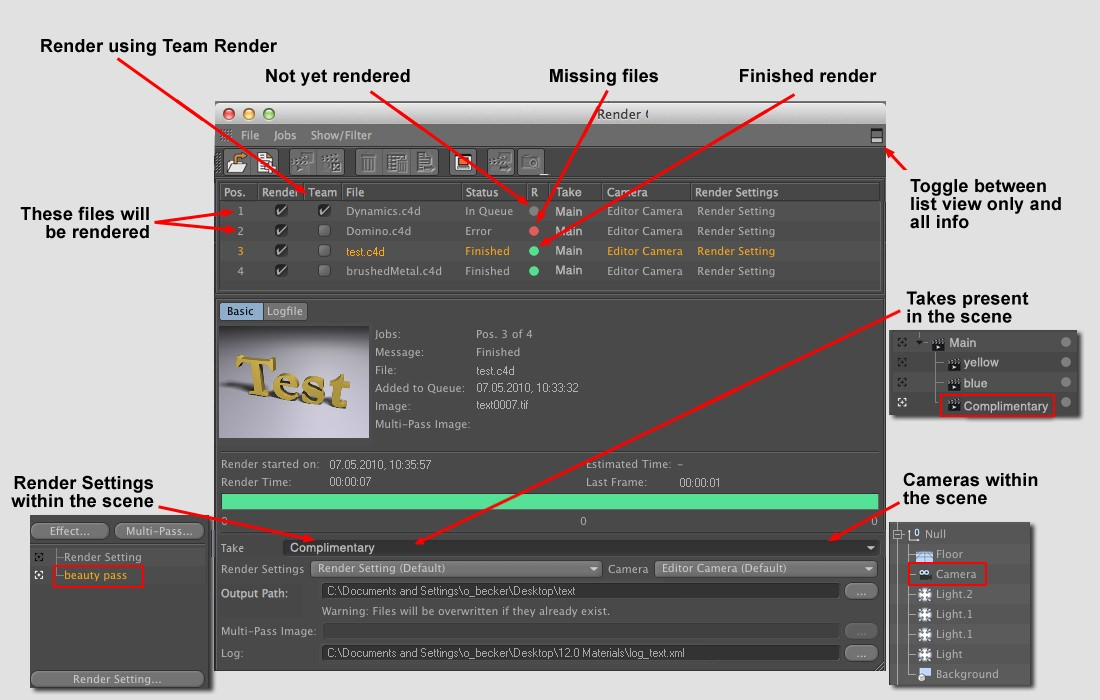
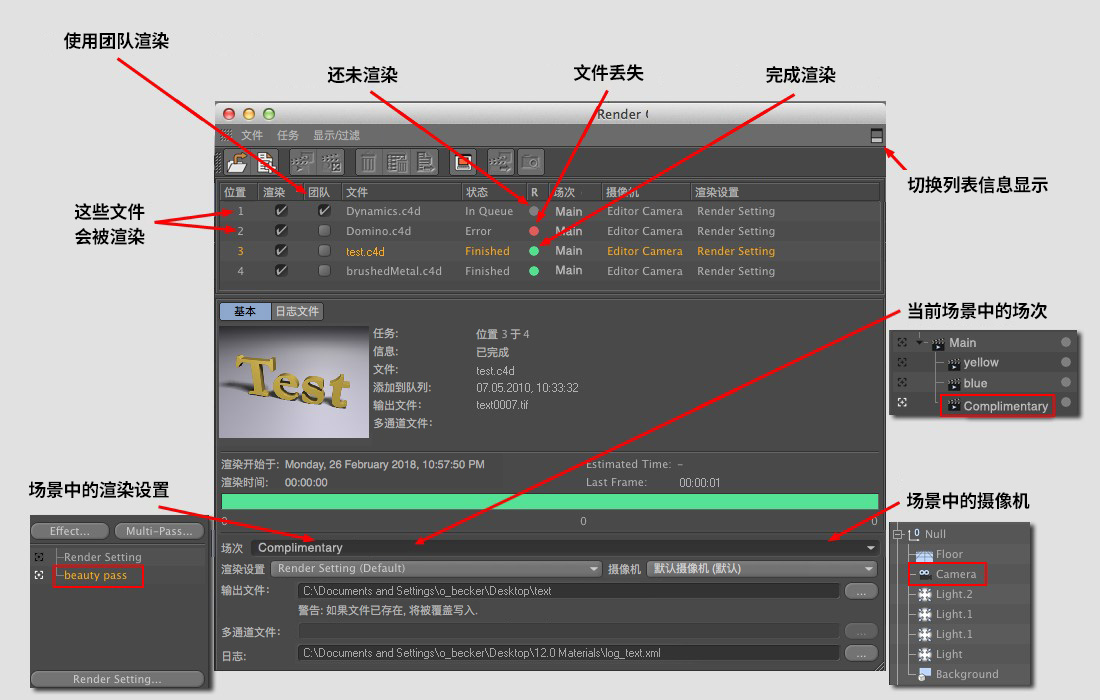
MAC

diff --git a/help/CN/html/xxxDRENDERSETTINGS-OBASELIST.html b/help/CN/html/xxxDRENDERSETTINGS-OBASELIST.html
@@ -5,7 +5,7 @@
 	<head>
 		<meta http-equiv="content-type" content="text/html;charset=utf-8">
 		<meta name="generator" content="WICKIE">
-		<title>Edit Render Settings: Basic Properties</title>
+		<title>编辑渲染设置：基本特性</title>
 		<meta name="FORMATTER" content="wickie">
 		<link href="../../files/wickie.css" type="text/css" rel="stylesheet" media="all">
 		<script type="text/javascript" src="../../files/versionAppender.js"> </script>
@@ -13,7 +13,7 @@
 		<!--PAGE_ID "32049"-->
 		<!--VATER_ID "32048"-->
 		<!--REIHENFOLGE "1"-->
-		<!--TITLE "Edit Render Settings: Basic Properties"-->
+		<!--TITLE "编辑渲染设置：基本特性"-->
 		<!--APPS "11 16 17 10 14 15"-->
 		<!--TYP "GROUP"-->
 	</head>
@@ -22,43 +22,50 @@
 
 
 <!--NO_SEARCH_START-->
-<span class="link_back"><a href="43666.html" target="_self">Reference</a></span> <span class="link_back"><a href="43668.html" target="_self">CINEMA 4D</a></span> <span class="link_back"><a href="1001.html" target="_self">CINEMA 4D Prime</a></span> <span class="link_back"><a href="5697.html" target="_self">Render Menu</a></span> <span class="link_back"><a href="DRENDERSETTINGS.html" target="_self">Edit Render Settings</a></span>
+<span class="link_back"><a href="43666.html" target="_self">参考</a></span> <span class="link_back"><a href="43668.html" target="_self">CINEMA 4D</a></span> <span class="link_back"><a href="1001.html" target="_self">CINEMA 4D Prime</a></span> <span class="link_back"><a href="5697.html" target="_self">渲染菜单</a></span> <span class="link_back"><a href="DRENDERSETTINGS.html" target="_self">编辑渲染设置</a></span>
 
 <div class="in-lite-page in-prime-page in-visualize-page in-broadcast-page in-studio-page in-bodypaint3d-page ">  <div class="page_only_body">
 <div class="page_only_apps">             Function available in CINEMA 4D Prime, Visualize, Broadcast, Studio & BodyPaint 3D  </div>
-<span class="HL_atom"><a href="DRENDERSETTINGS.html">Render Setting</a> </span><p></p><a href="DRENDERSETTINGS-OBASELIST.html" target=""><span class="c4d_group_navi_self">Basic</span></a> <a href="DRENDERSETTINGS-RDATA_GROUP_OUTPUT.html" target=""><span class="c4d_group_navi">Output</span></a> <a href="DRENDERSETTINGS-RDATA_GROUP_SAVE.html" target=""><span class="c4d_group_navi">Save</span></a> <a href="DRENDERSETTINGS-RDATA_GROUP_MULTIPASS.html" target=""><span class="c4d_group_navi">Multi-Pass</span></a> <a href="DRENDERSETTINGS-RDATA_GROUP_ANTIALIASING.html" target=""><span class="c4d_group_navi">Anti-Aliasing</span></a> <a href="DRENDERSETTINGS-RDATA_GROUP_OVERRIDEMAT.html" target=""><span class="c4d_group_navi">Material Override</span></a> <a href="DRENDERSETTINGS-RDATA_GROUP_OPTIONS.html" target=""><span class="c4d_group_navi">Options</span></a> <a href="DRENDERSETTINGS-RDATA_GROUP_STEREO.html" target=""><span class="c4d_group_navi">Stereoscopic</span></a> <a href="DRENDERSETTINGS-RDATA_GROUP_NET.html" target=""><span class="c4d_group_navi">Team Render</span></a><!--NO_SEARCH_END--><p class="c4d_group"><span>Basic Properties</span></p><p></p>
-<p>Basic Properties</p>
-<p><a id="ID_BASELIST_NAME" name="ID_BASELIST_NAME"></a> <!--INDEX "8","Name","ID_BASELIST_NAME"--><span class="c4d_id">Name</span></p>
-<p>Here you can enter a name for the object.</p>
-<p>This name will also appear in the Render menu and the Content Browser when the property is saved as a preset.</p>
-<p><a id="RDATA_GLOBALSAVE" name="RDATA_GLOBALSAVE"></a> <!--INDEX "8","Save","RDATA_GLOBALSAVE"--><span class="c4d_id">Save</span></p>
-<p>Use this option to define globally if any data should be saved at all during rendering. This also applies to Multi-Pass and compositing files.</p>
-<p><a id="RDATA_MULTIPASS_ENABLE" name="RDATA_MULTIPASS_ENABLE"></a> <!--INDEX "8","Enable Multi-Pass Rendering","RDATA_MULTIPASS_ENABLE"--><span class="c4d_id">Enable Multi-Pass Rendering</span></p>
-<p>Enables or disables the <a href="DRENDERSETTINGS-RDATA_GROUP_SAVE.html#mp" target="">Multi-Pass-Rendering</a> Cinema 4D.</p>
+<span class="HL_atom"><a href="DRENDERSETTINGS.html">渲染设置</a> </span><p></p><a href="DRENDERSETTINGS-OBASELIST.html" target=""><span class="c4d_group_navi_self">基本</span></a> <a href="DRENDERSETTINGS-RDATA_GROUP_OUTPUT.html" target=""><span class="c4d_group_navi">输出</span></a> <a href="DRENDERSETTINGS-RDATA_GROUP_SAVE.html" target=""><span class="c4d_group_navi">保存</span></a> <a href="DRENDERSETTINGS-RDATA_GROUP_MULTIPASS.html" target=""><span class="c4d_group_navi">多通道</span></a> <a href="DRENDERSETTINGS-RDATA_GROUP_ANTIALIASING.html" target=""><span class="c4d_group_navi">抗锯齿</span></a> <a href="DRENDERSETTINGS-RDATA_GROUP_OVERRIDEMAT.html" target=""><span class="c4d_group_navi">材质覆写</span></a> <a href="DRENDERSETTINGS-RDATA_GROUP_OPTIONS.html" target=""><span class="c4d_group_navi">选项</span></a> <a href="DRENDERSETTINGS-RDATA_GROUP_STEREO.html" target=""><span class="c4d_group_navi">立体</span></a> <a href="DRENDERSETTINGS-RDATA_GROUP_NET.html" target=""><span class="c4d_group_navi">Team Render</span></a><!--NO_SEARCH_END--><p class="c4d_group"><span>基本特性</span></p><p></p>
+<p>基本特性</p>
+<p><a id="ID_BASELIST_NAME" name="ID_BASELIST_NAME"></a> <!--INDEX "8","名称","ID_BASELIST_NAME"--><span class="c4d_id">名称</span></p>
+<p>你可以在这里输入渲染设置的名称。</p>
+<p>当特性保存为预设后，这个名称还会出现在渲染菜单和内容浏览器中。</p>
+<p><a id="RDATA_GLOBALSAVE" name="RDATA_GLOBALSAVE"></a> <!--INDEX "8","保存","RDATA_GLOBALSAVE"--><span class="c4d_id">保存</span></p>
+<p>使用这个选项可以全局地设置在渲染中要保存哪些数据，它还会应用到多通道和合成文件中。</p>
+<p><a id="RDATA_MULTIPASS_ENABLE" name="RDATA_MULTIPASS_ENABLE"></a> <!--INDEX "8","启用多通道渲染","RDATA_MULTIPASS_ENABLE"--><span class="c4d_id">启用多通道渲染</span></p>
+<p>启用或禁用<a href="DRENDERSETTINGS-RDATA_GROUP_SAVE.html#mp" target="">多通道渲染</a>。</p>
 <p><RELEASE_130></p>
-<p><a id="RDATA_STEREO" name="RDATA_STEREO"></a> <!--INDEX "8","Enable Stereoscopic Rendering","RDATA_STEREO"--><span class="c4d_id">Enable Stereoscopic Rendering</span></p>
-<p>This is the main switch for enabling or disabling stereoscopic rendering. For details, please refer to <a href="DRENDERSETTINGS-RDATA_GROUP_STEREO.html" target="">Stereoscopic</a>.</p>
-<p><a id="RDATA_MATERIAL_OVERRIDE" name="RDATA_MATERIAL_OVERRIDE"></a> <!--INDEX "8","Material Override","RDATA_MATERIAL_OVERRIDE"--><span class="c4d_id">Material Override</span></p>
-<p>See <a href="DRENDERSETTINGS-RDATA_GROUP_OVERRIDEMAT.html" target="">Material Override</a>.</p>
+<p><a id="RDATA_STEREO" name="RDATA_STEREO"></a> <!--INDEX "8","启用立体渲染","RDATA_STEREO"--><span class="c4d_id">启用立体渲染</span></p>
+<p>这是启用和或禁用立体渲染的主要开关。要查看详细内容，请参考<a href="DRENDERSETTINGS-RDATA_GROUP_STEREO.html" target="">立体</a>。</p>
+<p><a id="RDATA_MATERIAL_OVERRIDE" name="RDATA_MATERIAL_OVERRIDE"></a> <!--INDEX "8","材质覆写","RDATA_MATERIAL_OVERRIDE"--><span class="c4d_id">材质覆写</span></p>
+<p>参见<a href="DRENDERSETTINGS-RDATA_GROUP_OVERRIDEMAT.html" target="">材质覆写</a>。</p>
 <p><a id="RENDERER" name="RENDERER"></a></p>
-<p><a id="RDATA_RENDERENGINE" name="RDATA_RENDERENGINE"></a> <!--INDEX "8","Renderer","RDATA_RENDERENGINE"--><span class="c4d_id">Renderer</span> <span class="range">[-2147483648..2147483647]</span></p>
-<p>Depending on the renderer you have installed, a list will be displayed that lets you define how Cinema 4D should render. What you will normally see displayed in this list is:<ul></p>
-<p><li> <span class="command">Standard</span>: The normal Cinema 4D render engine will be used.</li><li> <span class="command">Software OpenGL</span>: Renders exactly as what is displayed in the Viewport. OpenGL will be rendered using the CUP and will therefore be slower than with <span class="command">Hardware OpenGL</span>. There is no visible difference between <span class="command">Software OpenGL</span> and <span class="command">Hardware OpenGL</span> (details can be found under <a href="PREFSOPENGL-PREF_OPENGL_MAIN_GROUP.html#PREF_OPENGL_HARDWARE" target="_self"><span class="text_id">Hardware OpenGL</span></a>).</li><li> <span class="command">Hardware OpenGL</span>: Renders exactly as what is displayed in the Viewport. OpenGL will be rendered a maximum speed using the graphics card.</li></ul><p></p>
-<p><div class="in-visualize in-broadcast in-studio " align="left">     <div class="only_marker" align ="right">         <div class="only_apps">             Function available in CINEMA 4D Visualize, Broadcast, Studio         </div>              <div class="only_body" align="left">             Physical</span>: A special renderer, including a Physical Camera will be used in order to render special effects such as real 3D depth of field or motion blur, etc.</p>
-<p>         </div>     </div> </div></p>
-<p><div class="in-visualize in-studio " align="left">     <div class="only_marker" align ="right">         <div class="only_apps">             Function available in CINEMA 4D Visualize, Studio         </div>              <div class="only_body" align="left">             <ul></p>
-<p><li> <span class="command">CineMan</span>: Use this option if you want to render using CineMan-compatible renderers (see <a href="32322.html" target="">CineMan</a>).</li>         </div>     </div> </div></p>
-<p><li> Any other renderers that are installed.</li></ul><p></p>
-<p><span class="command">Standard</span> or <span class="command">Physical Renderer</span>?</p>
-<p>In most cases you should use the normal Cinema 4D renderer (Standard), which itself is very fast and stable.</p>
-<p>However, if you want to correctly depict photographic effects such as those listed below, you should use the <span class="command">Physical Renderer</span>.<ul></p>
-<p><li> Rendered depth of field with corresponding blur effects</li><li> Rendered motion blur</li><li> Vignetting (darkening towards the image edge)</li><li> Chromatic Aberration (color seams at edges), etc.</li><li> When rendering multiple, combined blur effects (motion blur with depth of field, Area shadows, etc.) the Physical Renderer is faster than the Standard renderer.</li></ul><p></p>
+<p><a id="RDATA_RENDERENGINE" name="RDATA_RENDERENGINE"></a> <!--INDEX "8","渲染器","RDATA_RENDERENGINE"--><span class="c4d_id">渲染器</span> <span class="range">[-2147483648..2147483647]</span></p>
+<p>根据你安装的渲染器，这里会显示可用的渲染器列表，用它设置 CINEMA 4D 要使用那种渲染器进行渲染。通常列表中有以下渲染器：<ul></p>
+<p><li> <span class="command">标准</span>：通常 CINEMA 4D 会使用的渲染引擎。</li>
+<li> <span class="command">软件OpenGL</span>：用在视窗中显示的渲染器。OpenGL 会使用 CPU 进行渲染因此会比<span class="command">硬件OpenGL</span>慢。<span class="command">软件OpenGL</span>和<span class="command">硬件OpenGL</span>之间没有明显的差别（详见<a href="PREFSOPENGL-PREF_OPENGL_MAIN_GROUP.html#PREF_OPENGL_HARDWARE" target="_self"><span class="text_id">硬件OpenGL</span></a>）。</li>
+<li> <span class="command">硬件OpenGL</span>：用在视窗中显示的渲染器。OpenGL 在使用显卡时渲染速度最快。</li>
+<li> <span class="command">物理</span>：一个特殊的渲染器，会使用物理摄像头来渲染如真实 3D 景深或动态模糊等特殊效果。</li>
+<li> <span class="command">CineMan</span>：如果你想要使用 CineMan 兼容的渲染器，请使用这个选项（参见 <a href="32322.html" target="">CineMan</a>）。</li>
+<li> 其他安装的渲染器。</li></ul><p></p>
+<p><span class="command">标准</span>还是<span class="command">物理渲染器</span>？</p>
+<p>在大多数情况下你应该使用通常的 CINEMA 4D 渲染器（标准），因为它很快而且稳定。</p>
+<p>但是如果你想要准确地表现如下的照片效果，你应该使用<span class="command">物理渲染器</span>。<ul></p>
+<p><li> 渲染有相应模糊效果的景深</li>
+<li> 渲染动态模糊</li>
+<li> 装饰（图片边缘变暗）</li>
+<li> 色差（边缘处的彩色接缝）等</li>
+<li> 当渲染多个组合的模糊效果（有景深、区域阴影等效果的动态模糊）时，物理渲染器要比标准渲染器要快。</li></ul><p></p>
 <p><a id="DRAWBACKS" name="DRAWBACKS"></a></p>
-<p>Several drawbacks of the Physical Renderer, however, should not be ignored:<ul></p>
-<p><li> The realistic simulation of physical effects requires more calculation power and more time. It does, however, offer several more settings (which offer great potential for optimization), which in particular can make very fast preview renderings possible. Many more possibilities are also offered in conjunction with the <span class="command">Progressive Sampler</span> (endless rendering). More details can be found <a href="OCAMERA-ID_GROUP_LENS.html" target="">here</a>.</li><li> The Physical Renderer bears a number of disadvantages. For example, it does not work in conjunction with Sketch and Toon, the Cartoon Renderer post effect, Specular lights, cylindrical lens (and other post effects displayed in the selection menu); motion blur does not work in conjunction with several special elements such as PyroCluster, visible lights, object glow; furthermore, hair is rendered much slower, hair Multi-Passes cannot be rendered; finally, no hard shadows can be rendered (Area shadows will be rendered instead).</li><li> Faulty results can be produced in conjunction with Multi-Passes and Shaders (e.g., proximal and plug-in Shaders that use their own cache) when combined with motion blur.</li></ul><p></p>
-<p>Several effects in the Physical Renderer have been simulated for some time now in post-production. However, much of this was done by cheating and the result never really matched the real rendered effect. This applies to the following situations, for example:</p>
+<p>但是物理渲染器也有一些不可忽视的缺点：<ul></p>
+<p><li> 对物理效果的真实模拟需要更大的计算量和更多的时间。不过它也提供了一些设置，通过这些设置有巨大的优化潜力，尤其是可以使快速的预览渲染成为可能，搭配<span class="command">进程式采样</span>（无穷渲染）还能得到更多的可能性。详见<a href="OCAMERA-ID_GROUP_LENS.html" target="">这里</a>。</li>
+<li> 物理渲染器有很多缺陷，例如它不能与素描卡通、线描染器、高光（以及选择菜单中的一些其他效果）等一起使用；动态模糊不能与一些如 PyroCluster、可见灯光、对象辉光等特殊元素一起使用；还有，毛发渲染会慢得多，毛发多通道无法被渲染；最后，无法渲染硬投影（会渲染为区域阴影进行取代）。</li>
+<li> 当动态模糊与多通道和着色器（例如使用自己缓存的接近着色器和插件着色器）一起使用时会产生错误的结果。</li></ul><p></p>
+<p>物理渲染器中的一些效果现在在后期制作中已经可以被模拟了，虽然其中的大部分都是通过欺骗实现的，而且结果与真实渲染的效果并不相符。这可以应用到以下的情况，例如：</p>
 <p><div class="image_full" style="max-width:1600px"><img  src="../pics/031298.jpg"  ><span class="caption"></span></div><ul></p>
-<p><li> Left: Here you see a glass cube positioned in front of several spheres. The cube itself is blurred but the reflection of the sphere behind it is in focus. If a 2D post effect had been applied in whose depth map no information about the object behind the transparency is contained, everything behind the glass cube would have been rendered out of focus (blurred).</li><li> Right: 2D motion blur effects often have shortcomings at the edges because no information is available about objects that lie just outside the rendered region. However, this does not pose a problem for a real 3D motion blur.</li></RELEASE_130></p>
+<p><li> 左图：你可以在图中看到一个玻璃立方体位于一些球体前方。这个立方体自身是模糊的，但是在它后面的球体是聚焦的。如果对一个深度图不包含其背后物体信息的透明物体应用了 2D 特效，那么玻璃立方体背后的所有物体都会被处理为失焦（模糊）。</li>
+<li> 右图：2D 动态模糊效果通常在边缘处有缺陷，因为没有位于渲染范围以外的物体的信息可用，但是对真实的 3D 动态模糊中不存在这个问题。</li></RELEASE_130></p>
 <p></ul><p></p>
 <p>
 

diff --git a/help/CN/html/DRENDERSETTINGS.html b/help/CN/html/DRENDERSETTINGS.html
@@ -1,0 +1,90 @@
+<!DOCTYPE html PUBLIC "-//W3C//DTD HTML 4.01 Transitional//EN">
+<!-- saved from url=(0014)about:internet -->
+<html>
+
+	<head>
+		<meta http-equiv="content-type" content="text/html;charset=utf-8">
+		<meta name="generator" content="WICKIE">
+		<title>编辑渲染设置</title>
+		<meta name="FORMATTER" content="wickie">
+		<link href="../../files/wickie.css" type="text/css" rel="stylesheet" media="all">
+		<script type="text/javascript" src="../../files/versionAppender.js"> </script>
+		<script type="text/javascript" src="../../files/linkRewriter.js"> </script> 
+		<!--PAGE_ID "32048"-->
+		<!--VATER_ID "5697"-->
+		<!--REIHENFOLGE "10"-->
+		<!--TITLE "编辑渲染设置"-->
+		<!--APPS "11 16 17 14 15 10"-->
+		<!--TYP "ATOM"-->
+	</head>
+
+<body bgcolor="#e0e0e0" link="black" vlink="#2a2a2a">
+
+
+<!--NO_SEARCH_START-->
+<span class="link_back"><a href="1000.html" target="_self">Cinema 4D / BodyPaint 3D 程序文档</a></span> <span class="link_back"><a href="43666.html" target="_self">参考</a></span> <span class="link_back"><a href="43668.html" target="_self">CINEMA 4D</a></span> <span class="link_back"><a href="1001.html" target="_self">CINEMA 4D Prime</a></span> <span class="link_back"><a href="5697.html" target="_self">渲染菜单</a></span>
+
+<div class="in-lite-page in-prime-page in-visualize-page in-broadcast-page in-studio-page in-bodypaint3d-page ">  <div class="page_only_body">
+<div class="page_only_apps">             Function available in CINEMA 4D Prime, Visualize, Broadcast, Studio & BodyPaint 3D  </div>
+<!--INDEX "4","渲染设置",""--><p><span class="HL_atom">渲染设置</span><p></p><a href="DRENDERSETTINGS-OBASELIST.html" target=""><span class="c4d_group_navi">基本</span></a> <a href="DRENDERSETTINGS-RDATA_GROUP_OUTPUT.html" target=""><span class="c4d_group_navi">输出</span></a> <a href="DRENDERSETTINGS-RDATA_GROUP_SAVE.html" target=""><span class="c4d_group_navi">保存</span></a> <a href="DRENDERSETTINGS-RDATA_GROUP_MULTIPASS.html" target=""><span class="c4d_group_navi">多通道</span></a> <a href="DRENDERSETTINGS-RDATA_GROUP_ANTIALIASING.html" target=""><span class="c4d_group_navi">抗锯齿</span></a> <a href="DRENDERSETTINGS-RDATA_GROUP_OVERRIDEMAT.html" target=""><span class="c4d_group_navi">材质覆写</span></a> <a href="DRENDERSETTINGS-RDATA_GROUP_OPTIONS.html" target=""><span class="c4d_group_navi">选项</span></a> <a href="DRENDERSETTINGS-RDATA_GROUP_STEREO.html" target=""><span class="c4d_group_navi">立体</span></a> <a href="DRENDERSETTINGS-RDATA_GROUP_NET.html" target=""><span class="c4d_group_navi">Team Render</span></a><!--NO_SEARCH_END--><!--INDEX "2","渲染设置",""--><p><span class="HL_group">渲染设置</span></p><p></p>
+<p><PAGE_RELEASE_110 Improved organization of Render Settings options.></p>
+<p><!--INDEX "7","编辑渲染设置…",""--><!--PAGE_COMMAND "PLUGIN_Cmd_12161"--></p>
+<p><!--INDEX "7","渲染设置",""--><!--PAGE_COMMAND "PLUGIN_Cmd_50000"--></p>
+<p><a id="hl_1" name="hl_1"></a><!--INDEX "3","通用","hl_1"--><p><span class="HL_1">通用</span></p>
+<p><div class="image_full" style="max-width:1005px"><img  src="../pics/020127.jpg"  ><span class="caption">渲染预设选项可以用来设定图片或影片的输出格式。</span></div></p>
+<p>这个命令会打开渲染设置对话窗，另外，这个窗口也可以通过<a href="5821.html" target=""><span class="command">属性管理器</span></a>的模式菜单中的<span class="command">渲染设置</span>选项打开。</p>
+<p>在可用的渲染器（参见<a href="DRENDERSETTINGS-OBASELIST.html#RDATA_RENDERENGINE" target="_self"><span class="text_id">渲染器</span></a>）列表的下方，你可以找到一列按类别划分的渲染选项，它们位于渲染设置窗口的左上方，后期效果或多通道效果可以通过点击相应的<span class="command">效果</span>或<span class="command">多通道</span>按钮来添加，多个后期效果或多通道效果可以通过拖放来改变它们的顺序（改变后期效果的顺序可以改变这些效果组合产生的结果）。如果选择了多个后期效果或多通道效果，所有相应的设置会在窗口右侧区域显示。后期效果预设可以加载或保存。</p>
+<p>在部分渲染选项或后期效果的左边有一个复选框，你可以用它来激活或关闭相应的选项。这些复选框可以用来设定那些在渲染过程中基本不用保存的内容（无渲染的图像或视频、无多通道、无合成文件、无辐照缓存等）。</p>
+<p>当前场景的所有渲染设置会显示在渲染设置窗口的左下角。如果选择了一项设置，它的名称和相应的图标会被高亮显示。要重命名一项渲染设置，在它的名称上双击即可（跟在<span class="command">对象管理器</span>中重命名对象名称一样）。渲染设置可以直接拖放到列表中的其他位置，或按住 Ctrl 拖放来复制，甚至可以作为另一项渲染设置的子项（参见下一节）。渲染设置也可以在不同的场景之间复制和粘贴，而且它也可以被加载或保存。</p>
+<p>渲染设置窗口的右半部分包含了全部可以被修改的渲染设置，这些设置从 R11 版本开始与<span class="command">属性管理器</span>相兼容，这个版本起你可以使用所有相关的<span class="command">属性管理器</span> <a href="5822.html#context" target="">右键菜单</a>命令（右键单击）和这两个额外的参数：</p>
+<p><ul></p>
+<p><li> 继承父级设置：选择这个命令会重设所有没有继承值（粗体字）的参数。</li></ul><p><ul></p>
+<p><li> 覆写父级设置：选择这个命令会防止任何父级数值被假定（参数名称会加粗）。</li></ul><p></p>
+<p><RELEASE_110></p>
+<p>渲染设置也作为 HUD 元素显示在视窗中：</p>
+<p><div class="image_full" style="max-width:233px"><img  src="../pics/020564.jpg"  ><span class="caption"></span></div></p>
+<p><a id="hl_2" name="hl_2"></a><!--INDEX "3","继承渲染设置","hl_2"--><p><span class="HL_1">继承渲染设置</span></p>
+<p>CINEMA R11 版本添加的新特性，现在可以创建继承的渲染设置。</p>
+<p><ul></p>
+<p><li> 你可以直接拖放渲染设置，</li>或者</p>
+<p><li> 在一个渲染设置上单击右键然后选择<span class="command">新建子级</span></li></ul><p></p>
+<p>如果没有定义其他设置，子级渲染设置会继承所有父级的渲染设置，也就是说，如果修改了一个父级渲染设置，子级渲染设置也会相应的被修改。例外：如果一个将子级设置的参数设置为跟父级不同。</p>
+<p><a id="hl_3" name="hl_3"></a><!--INDEX "3","示例","hl_3"--><p><span class="HL_3">示例</span></p>
+<p><div class="image_full" style="max-width:735px"><img  src="../pics/020128.jpg"  ><span class="caption">继承了父级设置的子级参数名不是粗体，红色方框中的粗体参数则不会继承父级设置。</span></div></p>
+<p>在上面的示例中，创建了一个名称为 <span class="command">Preview Render (large)</span> 的渲染设置，在这个设置上单击右键并选择<span class="command">新建子级</span>来创建一个子级渲染设置，将这个新的子级渲染设置重命名为 <span class="command">Preview Render (small)</span>。在<span class="command">选项</span>标签页中设置透明、跟踪深度、反射深度和投影深度的数值，此时这些参数会变成粗体（这表示这些数值与父级渲染设置中的不同，并且它们不会从父级渲染设置中继承数值）。</p>
+<p>那么这样做有什么好处呢？这让你可以快速建立仅有少数参数不同的渲染预设，同时保持其他参数与父级相同。此外，改变父级设置的参数也可以相应改变它的子级设置（请记住例外情况）。</p>
+<p>如果你改变了父级渲染设置的参数数值，那么这个参数的名称会变成粗体。这是因为这些数值与默认的数值不同，你可以通过在这个参数的右键弹出菜单中选择<span class="command">复位默认状态</span>命令来去掉这个“粗体”状态。</p>
+<p><a id="hl_4" name="hl_4"></a><!--INDEX "3","渲染设置按钮和右键菜单","hl_4"--><p><span class="HL_2">渲染设置按钮和右键菜单</span></p>
+<p><!--INDEX "7","新建","no_command_1"--><a id="no_command_1" name="no_command_1"></a>   <span class="c4d_menu_id">新建</span></p>
+<p>使用这个右键菜单命令可以创建一个新的渲染设置，它位于层级的顶部。</p>
+<p><!--INDEX "7","新建子级","no_command_2"--><a id="no_command_2" name="no_command_2"></a>   <span class="c4d_menu_id">新建子级</span></p>
+<p>这个右键菜单命令会复制当前选择的渲染设置为它的子级，默认情况下它会从父级渲染设置继承所有参数的数值。</p>
+<p><!--INDEX "7","删除","no_command_3"--><a id="no_command_3" name="no_command_3"></a>   <span class="c4d_menu_id">删除</span></p>
+<p><!--INDEX "7","复制","PLUGIN_Cmd_300001053"--><!--COMMAND "PLUGIN_Cmd_300001053"--><img class="cmd_icon" src="../icons/PLUGIN_Cmd_300001053.png" alt="" height="24" width="24"    border="1"> <a id="PLUGIN_Cmd_300001053" name="PLUGIN_Cmd_300001053"></a>   <span class="c4d_menu_id">复制</span><br><!--INDEX "7","粘贴","PLUGIN_Cmd_300001054"--><!--COMMAND "PLUGIN_Cmd_300001054"--><img class="cmd_icon" src="../icons/PLUGIN_Cmd_300001054.png" alt="" height="24" width="24"    border="1"> <a id="PLUGIN_Cmd_300001054" name="PLUGIN_Cmd_300001054"></a>   <span class="c4d_menu_id">粘贴</span></p>
+<p>使用这些命令可以复制和粘贴渲染设置，渲染设置还可以复制到不同的场景中。</p>
+<p><!--INDEX "7","设置激活","no_command_4"--><a id="no_command_4" name="no_command_4"></a>   <span class="c4d_menu_id">设置激活</span></p>
+<p>它会将该渲染设置用作渲染。另外你也可以直接点击渲染设置旁边的图标。</p>
+<p><a id="RELEASE_170_1" name="RELEASE_170_1"></a><p><div class="release_marker" align="left"><p class="release" align="right">RELEASE 17</p><p>场次管理器</span></p>
+<p><a id="NEW" name="NEW"></a></p>
+<p><!--INDEX "7","场次分配","no_command_5"--><a id="no_command_5" name="no_command_5"></a>   <span class="c4d_menu_id">场次分配</span></p>
+<p>你可以从这个列表中选择场次并做出修改，而不需要从<span class="command">场次管理器</span>中来修改渲染设置（通过图标）。</p>
+<p></p></div></p>
+<p><!--INDEX "7","继承父级行为","no_command_6"--><a id="no_command_6" name="no_command_6"></a>   <span class="c4d_menu_id">继承父级行为</span></p>
+<p>除非你做出了相反的改变，否则默认会使用这个模式。如果你修改了一个参数，它的名称会变为粗体。<s>选择这个命令会将名称重设为“正常”字体。</s></p>
+<p><!--INDEX "7","应用 / 保存差异预设","no_command_7"--><a id="no_command_7" name="no_command_7"></a>   <span class="c4d_menu_id">应用 / 保存差异预设</span></p>
+<p><span class="command">差异</span>预设是指只包含修改过的（粗体）参数。选择<span class="command">保存差异预设</span>命令会保存该预设到<a href="5884.html" target="">内容浏览器</a>，路径为 <span class="command">Presets/User/Render Settings</span>。如果你选择了一个先前保存过的差异渲染设置，然后选择<span class="command">应用差异预设</span>命令，那么只有包含在保存的预设中的那些参数会在激活的渲染设置中被修改。</p>
+<p><!--INDEX "7","加载 / 保存预设","no_command_8"--><a id="no_command_8" name="no_command_8"></a>   <span class="c4d_menu_id">加载 / 保存预设</span></p>
+<p>所有渲染设置参数，包括全部后期效果和多通道都会保存到预设中。预设会被保存到<a href="5884.html" target="">内容浏览器</a>中，路径为 <span class="command">Presets/User/Render Setting</span> 。选择<span class="command">加载预设</span>命令能让你从所有可用的渲染预设中进行选择。</p>
+<p>这可以让你可以在以下任务中简单快速地保存和加载渲染预设：<ul></p>
+<p><li> 不需要抗锯齿、透明、投影等效果的测试渲染</li>
+<li> 包含一个或多个多通道效果的最终渲染</li>
+<li> 渲染一个特定范围的动画</li>
+<li> 更多其他情况</li></RELEASE_110></p>
+<p></ul><p></p>
+<p>
+
+</p>
+  </div>  </div>
+</body>
+
+</html>
